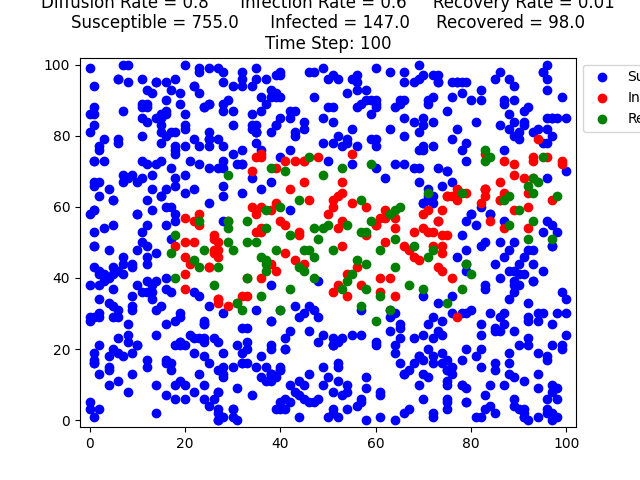
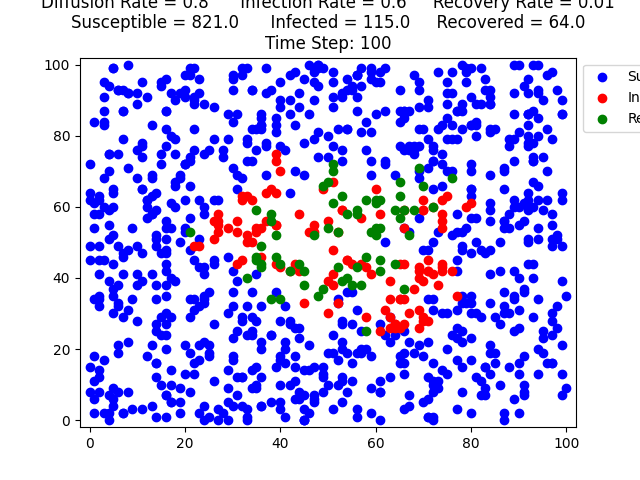
DONE

diff --git a/HW1/HW1.py b/HW1/HW1.py
@@ -95,12 +95,12 @@ class DiseaseSpreading:
                 agent_index_1 = self.get_agent_index(self.x[i] + 1, self.y[i])
                 agent_index_2 = self.get_agent_index(self.x[i], self.y[i] + 1)
 
-                if agent_index_1 != -1 and agent_index_2 != -1:
-            
+                if agent_index_1 != -1:
                     if self.susceptible[agent_index_1] == 1:
                         self.susceptible[agent_index_1] = 0
                         self.infected[agent_index_1] = 1
-                    
+
+                if agent_index_2 != -1:
                     if self.susceptible[agent_index_2]  == 1:
                         self.susceptible[agent_index_2]  = 0
                         self.infected[agent_index_2] = 1
@@ -110,12 +110,12 @@ class DiseaseSpreading:
                 agent_index_3 = self.get_agent_index(self.x[i] - 1, self.y[i])
                 agent_index_4 = self.get_agent_index(self.x[i], self.y[i] - 1)
 
-                if agent_index_3 != -1 and agent_index_4 != -1:
-
+                if agent_index_3 != -1:
                     if self.susceptible[agent_index_3] == 1:
                         self.susceptible[agent_index_3] = 0
                         self.infected[agent_index_3] = 1
-                    
+                
+                if agent_index_4 != -1:
                     if self.susceptible[agent_index_4] == 1:
                         self.susceptible[agent_index_4] = 0
                         self.infected[agent_index_4] = 1
